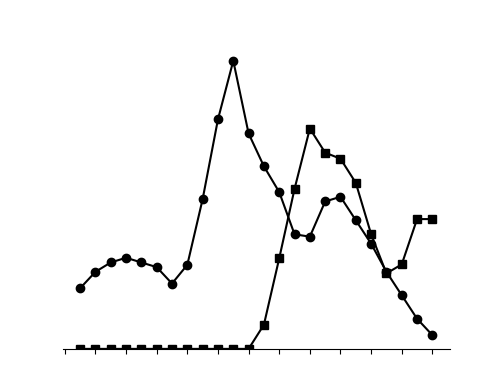
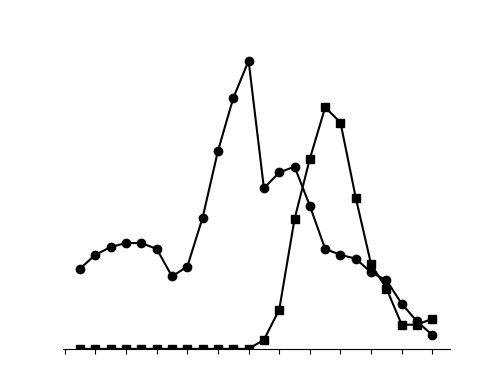
glaph draw

Changed region(s): [[0.15, 0.1224, 0.9, 0.8878]]

diff --git a/lib/draw_weather.py b/lib/draw_weather.py
@@ -10,6 +10,8 @@ class DrawWeather():
 
     def generate(self):
         self.draw_glaph()
+        self.draw.line(500, 0, 500, 480, 3)
+        self.draw.line(0, 88, 500, 88, 3)
         return self.draw.to_bytes()
     
     def generate_glaph_image(self):
@@ -19,29 +21,42 @@ class DrawWeather():
         figsize_width = pixel_width / dpi
         figsize_height = pixel_height / dpi
 
-        fig, ax1 = plt.subplots(figsize=(figsize_width, figsize_height), dpi=dpi)
-        ax1.xaxis.set_major_locator(mdates.HourLocator(interval=2))
-        ax1.xaxis.set_major_formatter(mdates.DateFormatter("%H:%M"))
+        fig1, ax1 = plt.subplots(figsize=(figsize_width, figsize_height), dpi=dpi)
 
         ax1.plot(self.weather_data["date"], self.weather_data["temperature"], marker="o", color="black")
-        ax2 = ax1.twinx()
-        ax2.plot(self.weather_data["date"], self.weather_data["precipitation_probability"], marker="s", color="black")
-        ax2.set_ylim(0, 100)
-
         ax1.spines['right'].set_visible(False)
         ax1.spines['top'].set_visible(False)
         ax1.spines['left'].set_visible(False)
+        ax1.tick_params(labelleft=True, left=False, labelbottom=True)
+        ax1.xaxis.set_major_locator(mdates.HourLocator(interval=2))
+        ax1.xaxis.set_major_formatter(mdates.DateFormatter('%H'))
 
-        ax2.axis("off")
+        path1 = "img/glaph1.png"
+        plt.savefig(path1)
 
-        ax1.tick_params(labelleft=False, left=False, labelbottom=False)
+        fig2, ax2 = plt.subplots(figsize=(figsize_width, figsize_height), dpi=dpi)
+        ax2.plot(self.weather_data["date"], self.weather_data["precipitation_probability"], marker="s", color="black")
+        ax2.set_ylim(0, 100)
+        ax2.yaxis.tick_right()
+        ax2.spines['right'].set_visible(False)
+        ax2.spines['top'].set_visible(False)
+        ax2.spines['left'].set_visible(False)
+        ax2.spines['bottom'].set_visible(False)
+        ax2.tick_params(bottom=False, left=False, right=False, top=False, labelbottom=False)
+        path2 = "img/glaph2.png"
+        plt.savefig(path2)
 
-        path = "img/glaph.png"
-        plt.savefig(path)
-        return path
+        return path1, path2
 
     def draw_glaph(self):
-        path = self.generate_glaph_image()
+        path1, path2 = self.generate_glaph_image()
         # path = "img/pose_galpeace_schoolgirl.png"
-        self.draw.img(path)
+        self.draw.img(path1, -20, 100, 1, self.draw.BLACK)
+        self.draw.img(path2, -20, 100, 1, self.draw.RED)
         return self.draw.to_bytes()
+
+
+if __name__ == "__main__":
+    w = DrawWeather()
+    w.generate()
+    w.draw._save("img/image.png")

diff --git a/lib/requestAPI.py b/lib/requestAPI.py
@@ -36,21 +36,14 @@ def get_weather():
         "longitude": 133.80834793,
         "daily": ["temperature_2m_max", "temperature_2m_min"],
         "hourly": ["temperature_2m", "precipitation_probability", "rain", "weather_code"],
-        "timezone": "Asia/Tokyo",
         "forecast_days": 1,
     }
 
-    # APIリクエストの実行
     responses = openmeteo.weather_api(url, params=params)
     response = responses[0]
 
-    # ---
-
-    ### 時間別データ (Hourly)
-
     hourly = response.Hourly()
 
-    # hourlyデータに必要な列を抽出
     hourly_data = {
         "date": pd.date_range(
             start=pd.to_datetime(hourly.Time(), unit="s", utc=True),

diff --git a/lib/draw.py b/lib/draw.py
@@ -69,9 +69,10 @@ class Draw():
     
     def img(self, path, x=0, y=0, m=1, color=1):
         img = Image.open(path)
+        img = img.resize((round(img.width * m), round(img.height * m)))
         binimg = img.convert("L")
-        binimg.point(lambda x: 0 if x < 128 else x)
-        self.image_method[color].paste(binimg)
+        binimg.point(lambda x: 0 if x < 200 else x)
+        self.image_method[color].paste(binimg, (x, y))
 
     def to_bytes(self):
         blackbytes = self.blackimage.tobytes()
